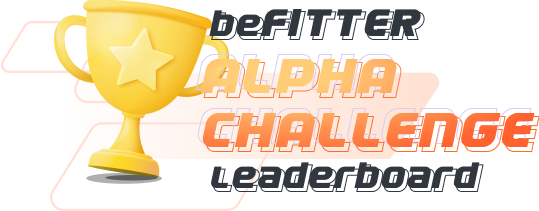
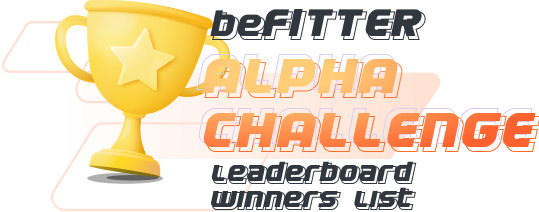
update content and link leaderbroad page

diff --git a/pages/index.tsx b/pages/index.tsx
@@ -19,6 +19,7 @@ import {
 	Icon,
 	Theme,
 	useMediaQuery,
+	styled,
 } from '@mui/material';
 
 import styles from '../styles/Home.module.scss';
@@ -120,6 +121,12 @@ const BannerSwiper: React.FC<any> = () => {
 };
 
 const BannerEvent: React.FC<any> = () => {
+	const ButtonLeaderboard =  styled(Box)({
+		cursor: 'pointer',
+		position: 'absolute',
+		bottom: 35,
+		right: -35
+	})
 	return (
 		<Box
 			sx={{
@@ -169,7 +176,7 @@ const BannerEvent: React.FC<any> = () => {
 						spacing={1.5}
 						mt={1.5}
 						alignItems="center"
-						justifyContent="end"
+						justifyContent="start"
 						sx={{ width: '100%' }}
 					>
 						<Typography
@@ -179,7 +186,7 @@ const BannerEvent: React.FC<any> = () => {
 							fontWeight={500}
 						>
 							{BANNER.COUNTDOWN}
-						</Typography>
+						</Typography>						
 						<CountdownClock />
 					</Stack>
 				</Stack>
@@ -220,6 +227,7 @@ const BannerEvent: React.FC<any> = () => {
 					</Link>
 				</Box>
 			</Box>
+			<ButtonLeaderboard><Link href={BANNER.BUTTON_LEADERBOARD.href}><img src={BANNER.BUTTON_LEADERBOARD.title} /></Link></ButtonLeaderboard>
 		</Box>
 	);
 };
@@ -280,6 +288,9 @@ const BannerSocial: React.FC<any> = () => {
 };
 
 const MobileBannerEvent: React.FC<any> = () => {
+	const ButtonLeaderboard =  styled(Box)({
+		cursor: 'pointer',
+	})
 	const isMobile = useMediaQuery('(max-width:600px)');
 	return (
 		<Link href={BANNER.BUTTON.href}>
@@ -316,7 +327,8 @@ const MobileBannerEvent: React.FC<any> = () => {
 							width={isMobile ? 300 : 350}
 							height={'auto'}
 						/>
-					</Box>					
+					</Box>		
+					<ButtonLeaderboard><Link href={BANNER.BUTTON_LEADERBOARD.href}><img src={BANNER.BUTTON_LEADERBOARD.title} /></Link></ButtonLeaderboard>			
 					<Box
 						sx={{
 							position: 'absolute',

diff --git a/constants/home.ts b/constants/home.ts
@@ -3,6 +3,10 @@ export const BANNER = {
 	IMAGECUP: 'assets/alpha-challenge-cup.png',
 	DESC: 'Join our challenge, test your limit and earn a special reward',
 	COUNTDOWN: 'Begins in',
+	BUTTON_LEADERBOARD: {
+		title: 'assets/buttonLeaderboard.png',
+		href: '/leaderboard'
+	},
 	BUTTON: {
 		title: 'REGISTER NOW',
 		icon: 'assets/icons/arrow-color.svg',
